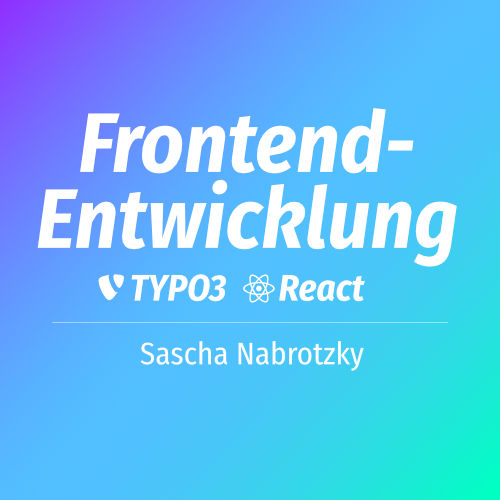
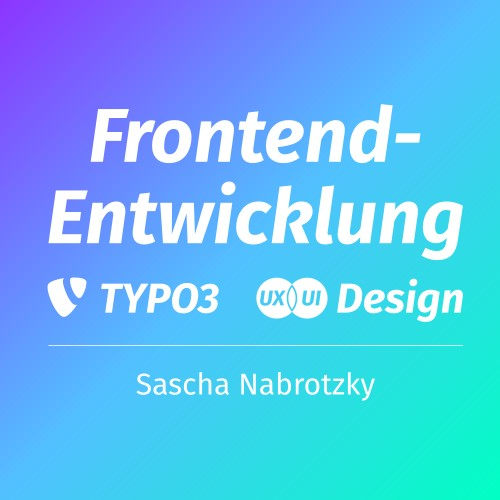
Optimize skills and projects

Changed region(s): [[0.06, 0.21, 0.93, 0.81], [0.09, 0.54, 0.45, 0.66]]

diff --git a/src/components/skillsLogos.jsx b/src/components/skillsLogos.jsx
@@ -13,7 +13,9 @@ import logoDDEV from "../images/DDEV-Logo_quad_white.svg"
 import logoPhotoshop from "../images/Photoshop-Logo_weiss.svg"
 import logoIllustrator from "../images/Illustrator-Logo_weiss.svg"
 import logoInDesign from "../images/InDesign-Logo_weiss.svg"
+import logoXd from "../images/XD_Logo_weiss.svg"
 import logoUXUI from "../images/ux-ui-design.svg"
+import logoUXResearch from "../images/ux-research.svg"
 import logoInkscape from "../images/inkscape-Logo_white.svg"
 import * as style from "../styling/skills.module.scss"
 
@@ -21,7 +23,7 @@ export default function SkillsLogos() {
   return (
     <div className={style.logoWrapper}>
       <div className={style.logosMain}>
-        <h2 className={style.headline}>Hauptberuflich</h2>
+        <h2 className={style.headline}>Primäre Technologien</h2>
         <div className={style.skill}>
           <img
             src={logoTypo3}
@@ -32,7 +34,7 @@ export default function SkillsLogos() {
           <p className={style.rating}>
             TYPO3 CMS
             <br />
-            *****
+            ***
           </p>
         </div>
         <div className={style.skill}>
@@ -45,7 +47,7 @@ export default function SkillsLogos() {
           <p className={style.rating}>
             Bootstrap 5
             <br />
-            *****
+            ***
           </p>
         </div>
         <div className={style.skill}>
@@ -58,7 +60,7 @@ export default function SkillsLogos() {
           <p className={style.rating}>
             HTML5
             <br />
-            ****
+            ***
           </p>
         </div>
         <div className={style.skill}>
@@ -66,7 +68,7 @@ export default function SkillsLogos() {
           <p className={style.rating}>
             CSS3
             <br />
-            *****
+            ****
           </p>
         </div>
         <div className={style.skill}>
@@ -79,7 +81,7 @@ export default function SkillsLogos() {
           <p className={style.rating}>
             SASS/SCSS
             <br />
-            *****
+            ****
           </p>
         </div>
         <div className={style.skill}>
@@ -92,20 +94,19 @@ export default function SkillsLogos() {
           <p className={style.rating}>
             Git
             <br />
-            ***
+            **
           </p>
         </div>
         <div className={style.skill}>
           <img src={logoDDEV} title="DDEV" alt="DDEV-Logo" loading="lazy"></img>
           <p className={style.rating}>
             DDEV
-            <br />
-            **
+            <br />*
           </p>
         </div>
       </div>
       <div className={style.logosMain}>
-        <h2 className={style.headline}>Nebenprojekte</h2>
+        <h2 className={style.headline}>Sekundäre Technologien</h2>
         <div className={style.skill}>
           <img
             src={logoJs}
@@ -128,8 +129,7 @@ export default function SkillsLogos() {
           ></img>
           <p className={style.rating}>
             React.js
-            <br />
-            **
+            <br />*
           </p>
         </div>
         <div className={style.skill}>
@@ -141,8 +141,7 @@ export default function SkillsLogos() {
           ></img>
           <p className={style.rating}>
             Gatsby.js
-            <br />
-            **
+            <br />*
           </p>
         </div>
         <div className={style.skill}>
@@ -155,12 +154,12 @@ export default function SkillsLogos() {
           <p className={style.rating}>
             npm
             <br />
-            ***
+            **
           </p>
         </div>
       </div>
       <div className={style.logosMain}>
-        <h2 className={style.headline}>Design</h2>
+        <h2 className={style.headline}>Design / Tools</h2>
         <div className={style.skill}>
           <img
             src={logoUXUI}
@@ -171,7 +170,20 @@ export default function SkillsLogos() {
           <p className={style.rating}>
             UX-Design
             <br />
-            ***
+            **
+          </p>
+        </div>
+        <div className={style.skill}>
+          <img
+            src={logoUXResearch}
+            title="UX-Research"
+            alt="UX-Research"
+            loading="lazy"
+          ></img>
+          <p className={style.rating}>
+            UX-Research
+            <br />
+            **
           </p>
         </div>
         <div className={style.skill}>
@@ -184,7 +196,7 @@ export default function SkillsLogos() {
           <p className={style.rating}>
             Photoshop
             <br />
-            *****
+            ****
           </p>
         </div>
         <div className={style.skill}>
@@ -210,7 +222,20 @@ export default function SkillsLogos() {
           <p className={style.rating}>
             InDesign
             <br />
-            ***
+            ****
+          </p>
+        </div>
+        <div className={style.skill}>
+          <img
+            src={logoXd}
+            title="Adobe Xd"
+            alt="Adobe Xd"
+            loading="lazy"
+          ></img>
+          <p className={style.rating}>
+            Xd
+            <br />
+            <span style={{ opacity: 0.3 }}>*</span>
           </p>
         </div>
         <div className={style.skill}>
@@ -227,6 +252,10 @@ export default function SkillsLogos() {
           </p>
         </div>
       </div>
+      <span class={style.legend}>
+        * Grundkenntnisse; ** Erweiterte Grundkenntnisse; *** Gute Kenntnisse;
+        **** Sehr gute Kenntnisse
+      </span>
     </div>
   )
 }

diff --git a/src/components/hero.jsx b/src/components/hero.jsx
@@ -2,8 +2,8 @@ import React, { useState, useEffect } from "react"
 import * as heroStyles from "../styling/hero.module.scss"
 
 export default function Hero() {
-  const textFirstLine = ["Frontend /", "TYPO3 CMS /", "Responsives"]
-  const textSecondLine = ["UX-Design", "React.js", "CSS3-Design"]
+  const textFirstLine = ["Frontend-", "UX/UI-Design", "Responsives"]
+  const textSecondLine = ["Entwicklung", "UX-Research", "CSS3-Design"]
   let [state, setState] = useState(textFirstLine[0])
   let [state2, setState2] = useState(textSecondLine[0])
 

diff --git a/gatsby-config.js b/gatsby-config.js
@@ -6,7 +6,7 @@
 
 module.exports = {
   siteMetadata: {
-    title: "Sascha Nabrotzky | UX-Engineer",
+    title: "Sascha Nabrotzky | Frontend-Entwickler/UX-Designer",
     description:
       "Entwicklung und Programmierung von nutzerzentrierten responsiven Websites in TYPO3 und React mit CSS3/SCSS, Fluid und Bootstrap",
     url: "https://sascha-nabrotzky.github.io/",

diff --git a/src/components/sidemenu.jsx b/src/components/sidemenu.jsx
@@ -35,6 +35,12 @@ export default function Sidemenu() {
           {listItem[3].innerText}
         </a>
       </li>
+      <li className={style.menuitem}>
+        <a className={style.menulink} href={`#${listItem[4].id}`}>
+          {" "}
+          {listItem[4].innerText}
+        </a>
+      </li>
     </ul>
   )
 }

diff --git a/src/styling/skills.module.scss b/src/styling/skills.module.scss
@@ -55,3 +55,11 @@
   color: var(--col-white);
   text-align: center;
 }
+
+.legend {
+  display: flex;
+  justify-content: flex-end;
+  margin-top: 1rem;
+  color: var(--col-midgray);
+  text-align: right;
+}

diff --git a/src/content/projectSkills.md b/src/content/projectSkills.md
@@ -1,0 +1,17 @@
+---
+title: "Überarbeitung der Darstellung meiner Fähigkeiten"
+---
+
+![Vereinsseite der Tagesmütter](../images/SkillsRework.jpg)
+
+<p style="font-size: var(--fs-small-text);text-align: right;">Meine Rolle: Frontend-Entwickler | UX-Designer<br/>Technologien: Gatsby | SCSS | Inkscape</p>
+
+[Zur Website](https://sascha-nabrotzky.github.io/skills)
+
+**Herausforderung:** Die Darstellung meiner beruflichen Fähigkeiten wirkte zerstreut und es wurden nicht alle Fragen (z. B. für Recruiter) beantwortet, deswegen sollten alle meine Fähigkeiten übersichtlicher zusammengefasst und zudem leicht erfassbar der aktuelle Wissenstand gezeigt werden.
+
+**Vorgehen:** Ich baute zuerst den Bereich im Groben in Inkscape nach und testete ein paar Möglichkeiten aus, das letztendliche Feintuning habe ich dann direkt bei der Umsetzung mit SCSS/CSS3 im Projekt gemacht. Die Bereiche "Hauptberuflich" und "Nebenprojekte" wurden zu etwas allgemeineren Formulierungen umbenannt (Primär, Sekundär) und der Bereich "Design" kam hinzu. Zur besseren Einordnung meines Wissensstandes setzte ich kleine Sterne unter die einzelnen Logos und eine Legende unten drunter, außerdem kamen ausgeschriebene Namen zu den einzelnen Technologien hinzu, da sie nicht jeder sofort anhand des Logos erkennt.
+
+**Resultat:** Unterstützt von den zusammenfassenden Bereichen mit den allgemeineren Überschriften und den ausgeschriebenen Technologienamen gibt die Gestaltung sofortige Orientierung, zudem zeigen die Sterne recht deutlich, wie fortgeschritten man in den einzelnen Tools ist. Die einheitliche Farbgebung der weißen Logos und der gleichen Farbverläufe geben dem ganzen viel mehr Ruhe.
+
+<p>&bull; &bull; &bull;</p>
